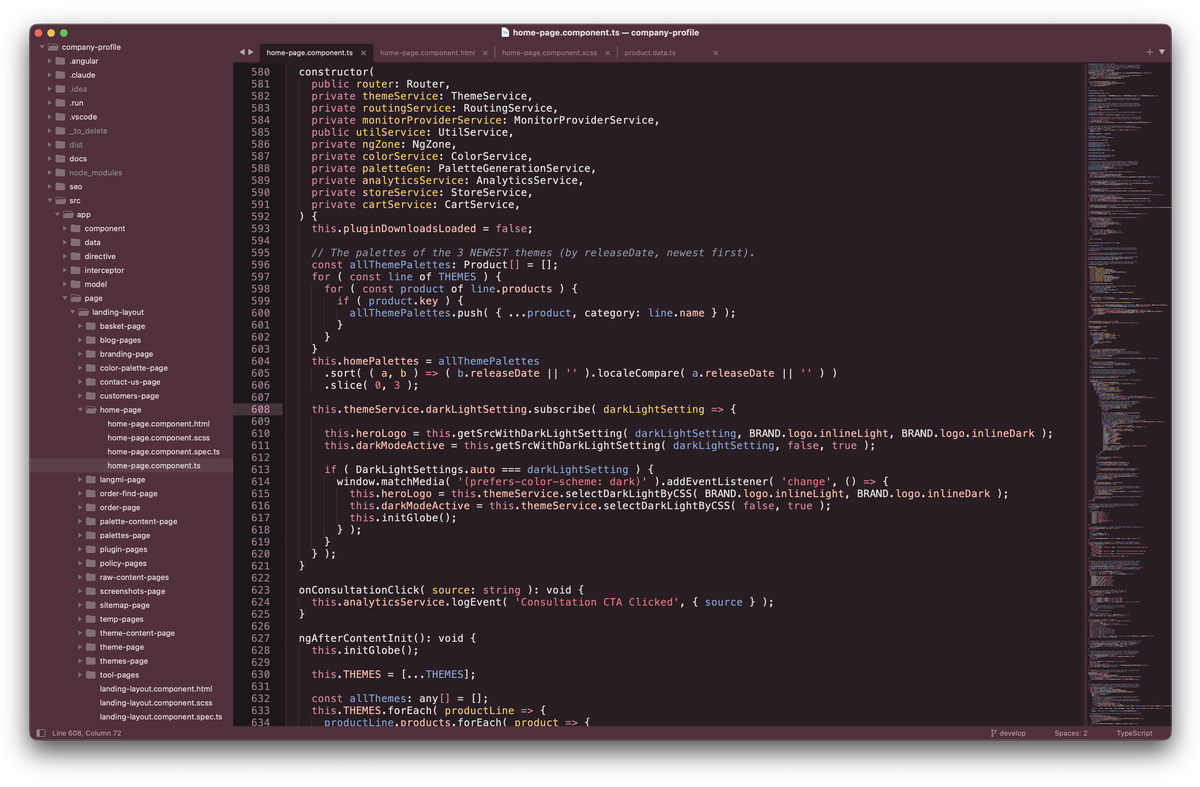
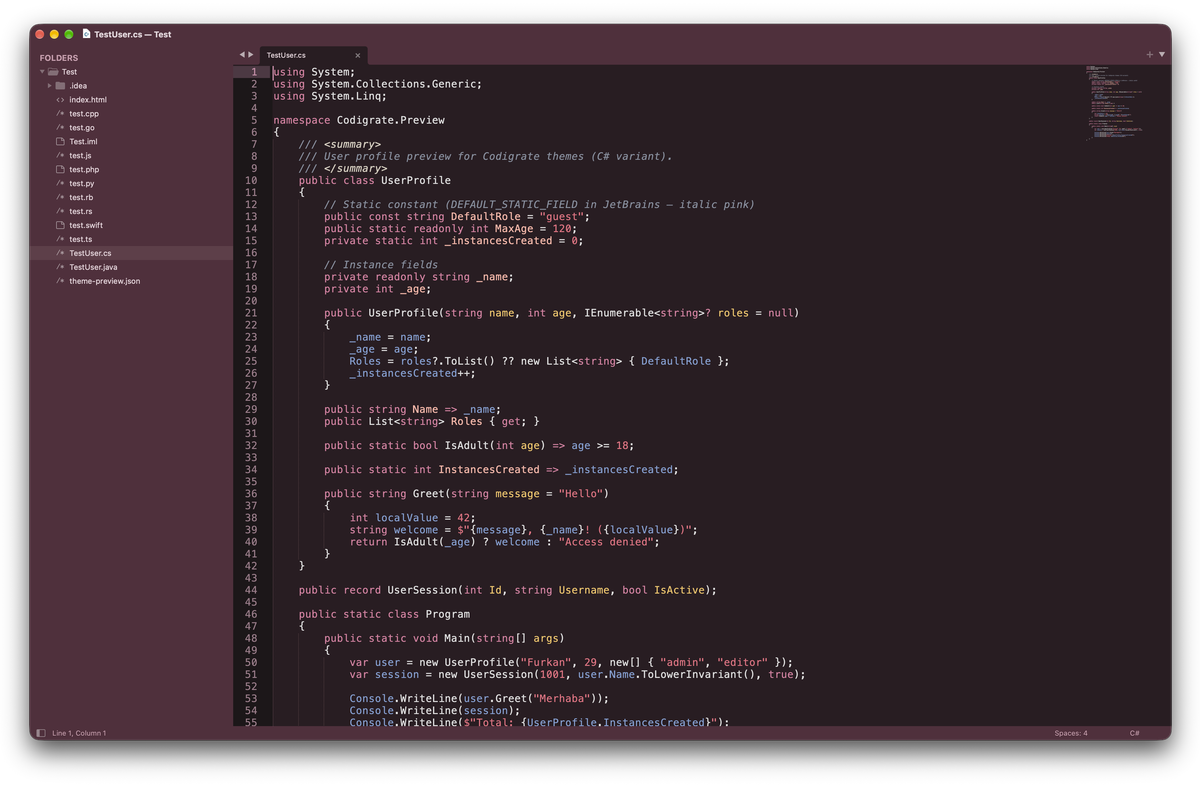
Add Bioluminescence (Premium); retake every screenshot on the Test project

diff --git a/README.md b/README.md
@@ -1800,6 +1800,155 @@ Inspired by a spring garden in full bloom, from tulip beds and crocus to the fir
    </tr>
 </table>
 
+---
+
+<p align="center">
+   <a href="https://codigrate.com/theme?product=bioluminescence&platform=sublime%20text">
+      <img src="nature/bioluminescence-theme/icon.png" alt="Bioluminescence" width="160">
+   </a>
+</p>
+
+<h1 align="center">
+   Bioluminescence
+   <br>
+   (Premium)
+</h1>
+
+[![Premium – buy on codigrate.com](https://img.shields.io/badge/Premium-Buy%20on%20codigrate.com-00B4FF?style=for-the-badge)](https://codigrate.com/theme?product=bioluminescence&platform=sublime%20text)
+
+## Description
+
+Inspired by a bioluminescent shore at night, where every wave breaking on the sand lights up in electric blue, this dark theme rests on a near-black ocean base tinted with midnight navy, then lights it with glowing cyan, plankton blue, and violet accents. The deep water surface keeps long sessions calm, while the luminous cold accents draw the eye to what matters.
+
+## Screenshots
+
+<img src="nature/bioluminescence-theme/screenshot-1.png" alt="Bioluminescence screenshot">
+
+## Color Palette
+
+<table>
+   <tr>
+      <td><img src="https://codigrate.com/util/color/06080F.png?width=30&height=30" alt="#06080F"></td>
+      <td>
+         Deep Tide
+      </td>
+      <td>
+         Editor Background
+      </td>
+      <td>
+         <a href="https://codigrate.com/tools/color/06080F">#06080F</a>
+      </td>
+   </tr>
+   <tr>
+      <td><img src="https://codigrate.com/util/color/0D1220.png?width=30&height=30" alt="#0D1220"></td>
+      <td>
+         Midnight Water
+      </td>
+      <td>
+         Window Background
+      </td>
+      <td>
+         <a href="https://codigrate.com/tools/color/0D1220">#0D1220</a>
+      </td>
+   </tr>
+   <tr>
+      <td><img src="https://codigrate.com/util/color/0E1526.png?width=30&height=30" alt="#0E1526"></td>
+      <td>
+         Dark Current
+      </td>
+      <td>
+         Separator Color
+      </td>
+      <td>
+         <a href="https://codigrate.com/tools/color/0E1526">#0E1526</a>
+      </td>
+   </tr>
+   <tr>
+      <td><img src="https://codigrate.com/util/color/2F7BFF.png?width=30&height=30" alt="#2F7BFF"></td>
+      <td>
+         Electric Tide
+      </td>
+      <td>
+         Accent Color
+      </td>
+      <td>
+         <a href="https://codigrate.com/tools/color/2F7BFF">#2F7BFF</a>
+      </td>
+   </tr>
+   <tr>
+      <td><img src="https://codigrate.com/util/color/A6B4FF.png?width=30&height=30" alt="#A6B4FF"></td>
+      <td>
+         Periwinkle Glow
+      </td>
+      <td>
+         Global Variables
+      </td>
+      <td>
+         <a href="https://codigrate.com/tools/color/A6B4FF">#A6B4FF</a>
+      </td>
+   </tr>
+   <tr>
+      <td><img src="https://codigrate.com/util/color/8F7CFF.png?width=30&height=30" alt="#8F7CFF"></td>
+      <td>
+         Violet Depth
+      </td>
+      <td>
+         Secondary Accent Color
+      </td>
+      <td>
+         <a href="https://codigrate.com/tools/color/8F7CFF">#8F7CFF</a>
+      </td>
+   </tr>
+   <tr>
+      <td><img src="https://codigrate.com/util/color/36D4F0.png?width=30&height=30" alt="#36D4F0"></td>
+      <td>
+         Noctiluca
+      </td>
+      <td>
+         Search Match Background
+      </td>
+      <td>
+         <a href="https://codigrate.com/tools/color/36D4F0">#36D4F0</a>
+      </td>
+   </tr>
+   <tr>
+      <td><img src="https://codigrate.com/util/color/ACDAF6.png?width=30&height=30" alt="#ACDAF6"></td>
+      <td>
+         Shallow Glow
+      </td>
+      <td>
+         Parameters
+      </td>
+      <td>
+         <a href="https://codigrate.com/tools/color/ACDAF6">#ACDAF6</a>
+      </td>
+   </tr>
+   <tr>
+      <td><img src="https://codigrate.com/util/color/9CB0C8.png?width=30&height=30" alt="#9CB0C8"></td>
+      <td>
+         Sea Mist
+      </td>
+      <td>
+         Secondary Foreground
+      </td>
+      <td>
+         <a href="https://codigrate.com/tools/color/9CB0C8">#9CB0C8</a>
+      </td>
+   </tr>
+   <tr>
+      <td><img src="https://codigrate.com/util/color/D7E3F2.png?width=30&height=30" alt="#D7E3F2"></td>
+      <td>
+         Moonlit Foam
+      </td>
+      <td>
+         Primary Foreground
+      </td>
+      <td>
+         <a href="https://codigrate.com/tools/color/D7E3F2">#D7E3F2</a>
+      </td>
+   </tr>
+</table>
+
 ## Cities
 
 <p align="center">
